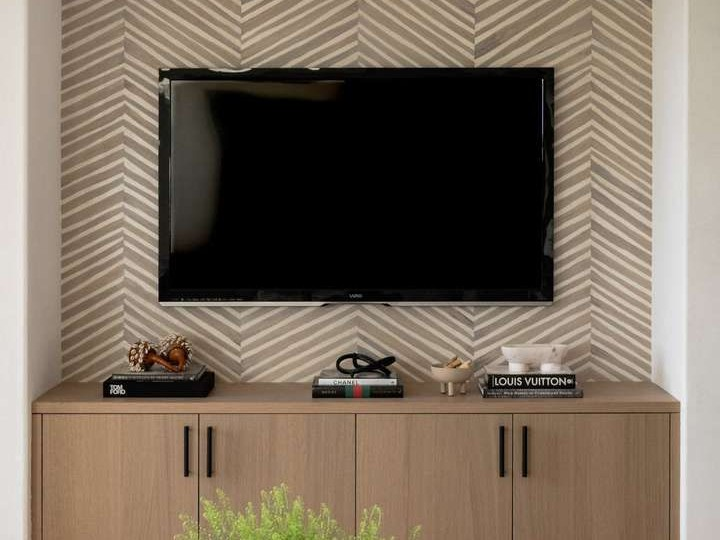
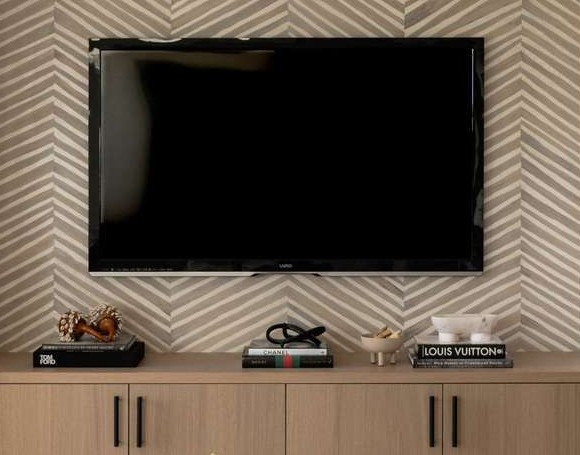
One-line wordmark, stronger glitch, tighter crop, fix expand, payoff highlight
- Hero "SUNDAY M.I.A." now on one line (nowrap + responsive size).
- Glitch intensified: faster cycle, more frequent bursts, larger channel-split
  offsets and slice jumps.
- Mockup cropped tighter around the TV (less surrounding room); overlay %s and
  room aspect recomputed.
- Fix "Expand the mock-up": the room was trapped under the body-level backdrop's
  stacking context — now lifted to <body> on open and restored on close.
- Payoff (accent) line now sits on a colored highlight (day-accent marker, dark
  text); Sunday Ticket logo moved to the top-left of the spot.

diff --git a/styles.css b/styles.css
@@ -70,23 +70,44 @@ em { font-style: normal; color: var(--ink); }
 }
 .hero__kicker { text-transform: uppercase; letter-spacing: .2em; font-size: 12px; color: var(--red-soft); font-weight: 600; margin-bottom: 20px; }
 .hero__title { font-family: 'Anton'; font-size: clamp(54px, 11vw, 132px); line-height: .86; text-transform: uppercase; letter-spacing: -.01em; }
+/* keep the whole wordmark on one line */
+.hero__title--mia { white-space: nowrap; font-size: clamp(28px, 11vw, 118px); }
+
 /* "M.I.A." — signal-lost glitch (no signal = missing from your TV) */
-.hero__title-mia { position: relative; display: inline-block; color: #fff; letter-spacing: .01em; animation: miaFlicker 4s steps(1) infinite; }
+.hero__title-mia { position: relative; display: inline-block; color: #fff; letter-spacing: .01em; animation: miaFlicker 2.4s steps(1) infinite; }
 .hero__title-mia::before, .hero__title-mia::after { content: attr(data-text); position: absolute; inset: 0; pointer-events: none; mix-blend-mode: screen; }
-.hero__title-mia::before { color: #ff2d3a; transform: translate(-2px, 1px); animation: miaGlitchR 4s steps(1) infinite; }
-.hero__title-mia::after  { color: #1fd8ff; transform: translate(2px, -1px); animation: miaGlitchC 4s steps(1) infinite; }
-@keyframes miaFlicker { 0%, 88%, 100% { opacity: 1; } 89% { opacity: .55; } 90% { opacity: .95; } 92% { opacity: .4; } 93% { opacity: .92; } }
+.hero__title-mia::before { color: #ff2d3a; transform: translate(-3px, 1px); animation: miaGlitchR 2.4s steps(1) infinite; }
+.hero__title-mia::after  { color: #1fd8ff; transform: translate(3px, -1px); animation: miaGlitchC 2.4s steps(1) infinite; }
+@keyframes miaFlicker {
+  0%, 100% { opacity: 1; }
+  9% { opacity: .65; } 10% { opacity: 1; }
+  27% { opacity: .4; } 28% { opacity: .92; }
+  44% { opacity: .7; } 45% { opacity: 1; }
+  61% { opacity: .35; } 62% { opacity: .9; }
+  79% { opacity: .6; } 80% { opacity: 1; }
+  93% { opacity: .45; } 94% { opacity: .95; }
+}
 @keyframes miaGlitchR {
-  0%, 86%, 100% { clip-path: inset(0 0 0 0); transform: translate(-2px, 1px); }
-  87% { clip-path: inset(18% 0 58% 0); transform: translate(-7px, -2px); }
-  90% { clip-path: inset(62% 0 12% 0); transform: translate(6px, 1px); }
-  94% { clip-path: inset(40% 0 38% 0); transform: translate(-5px, 2px); }
+  0%, 100% { clip-path: inset(0 0 0 0); transform: translate(-3px, 1px); }
+  8%  { clip-path: inset(8% 0 72% 0);  transform: translate(-11px, -3px); }
+  16% { clip-path: inset(54% 0 22% 0); transform: translate(9px, 2px); }
+  26% { clip-path: inset(30% 0 46% 0); transform: translate(-8px, 3px); }
+  40% { clip-path: inset(0 0 0 0);     transform: translate(-3px, 1px); }
+  54% { clip-path: inset(74% 0 6% 0);  transform: translate(10px, -2px); }
+  64% { clip-path: inset(16% 0 64% 0); transform: translate(-10px, 2px); }
+  78% { clip-path: inset(44% 0 30% 0); transform: translate(8px, -3px); }
+  92% { clip-path: inset(10% 0 70% 0); transform: translate(-9px, 2px); }
 }
 @keyframes miaGlitchC {
-  0%, 86%, 100% { clip-path: inset(0 0 0 0); transform: translate(2px, -1px); }
-  88% { clip-path: inset(70% 0 8% 0); transform: translate(7px, 2px); }
-  91% { clip-path: inset(10% 0 72% 0); transform: translate(-6px, -2px); }
-  95% { clip-path: inset(48% 0 30% 0); transform: translate(5px, -2px); }
+  0%, 100% { clip-path: inset(0 0 0 0); transform: translate(3px, -1px); }
+  8%  { clip-path: inset(66% 0 10% 0); transform: translate(11px, 2px); }
+  16% { clip-path: inset(12% 0 68% 0); transform: translate(-9px, -2px); }
+  26% { clip-path: inset(48% 0 28% 0); transform: translate(8px, -3px); }
+  40% { clip-path: inset(0 0 0 0);     transform: translate(3px, -1px); }
+  54% { clip-path: inset(20% 0 60% 0); transform: translate(-10px, 2px); }
+  64% { clip-path: inset(58% 0 16% 0); transform: translate(10px, -2px); }
+  78% { clip-path: inset(34% 0 42% 0); transform: translate(-8px, 3px); }
+  92% { clip-path: inset(70% 0 6% 0);  transform: translate(9px, -2px); }
 }
 @media (prefers-reduced-motion: reduce) { .hero__title-mia, .hero__title-mia::before, .hero__title-mia::after { animation: none; } }
 .hero__lede { margin-top: 26px; max-width: 680px; color: var(--ink-dim); font-size: clamp(15px, 1.7vw, 18px); }
@@ -200,7 +221,7 @@ em { font-style: normal; color: var(--ink); }
 .ctv__loader .spin { width: 18px; height: 18px; border: 2px solid rgba(255,255,255,.25); border-top-color: var(--accent); border-radius: 50%; animation: spin .8s linear infinite; }
 @keyframes spin { to { transform: rotate(360deg); } }
 
-.ctv__chrome { position: absolute; top: 0; left: 0; right: 0; z-index: 4; display: flex; align-items: flex-start; justify-content: flex-end; padding: 3% 3.4%; }
+.ctv__chrome { position: absolute; top: 0; left: 0; right: 0; z-index: 4; display: flex; align-items: flex-start; justify-content: flex-start; padding: 3% 3.4%; }
 .ctv__stlogo { height: clamp(24px, 8cqw, 52px); width: auto; flex: none; filter: drop-shadow(0 2px 12px rgba(0,0,0,.7)); }
 .st-lockup { display: flex; align-items: center; gap: 8px; }
 .st-lockup__yt { background: var(--red); color: #fff; font-size: 10px; padding: 4px 6px; border-radius: 4px; line-height: 1; }
@@ -224,7 +245,7 @@ em { font-style: normal; color: var(--ink); }
 .ctv__statement { flex: 0 0 37%; min-width: 0; display: flex; flex-direction: column; justify-content: flex-end; gap: 2.2cqw; }
 .ctv__headline { font-family: 'Oswald'; line-height: .96; text-wrap: balance; margin: 0; }
 .ctv__hl-lead { display: block; font-weight: 700; text-transform: uppercase; letter-spacing: -.015em; font-size: clamp(13px, 4.7cqw, 38px); color: #fff; text-shadow: 0 2px 18px rgba(0,0,0,.9); }
-.ctv__hl-accent { display: block; margin-top: 1.4cqw; font-family: 'Archivo', sans-serif; font-style: italic; font-weight: 500; text-transform: none; letter-spacing: 0; font-size: clamp(9px, 2.7cqw, 18px); line-height: 1.18; color: var(--accent); text-shadow: 0 1px 10px rgba(0,0,0,.85); }
+.ctv__hl-accent { display: inline-block; margin-top: 1.6cqw; font-family: 'Archivo', sans-serif; font-style: italic; font-weight: 600; text-transform: none; letter-spacing: 0; font-size: clamp(9px, 2.7cqw, 18px); line-height: 1.28; color: #0a0d12; background: var(--accent); padding: .16em .42em; border-radius: 3px; box-shadow: 0 2px 12px rgba(0,0,0,.32); }
 .ctv__cta-btn { align-self: flex-start; margin-top: 1cqw; font-family: 'Oswald'; text-transform: uppercase; letter-spacing: .02em; font-size: clamp(8px, 2.2cqw, 13px); color: #fff; background: var(--red); padding: .62em 1.05em; border-radius: 999px; box-shadow: 0 4px 16px rgba(255,45,45,.4); }
 .ctv__headline.is-reveal .ctv__hl-lead { animation: hlLead .5s cubic-bezier(.2,.75,.2,1) both; }
 .ctv__headline.is-reveal .ctv__hl-accent { animation: hlAcc .5s .12s ease both; }
@@ -257,13 +278,13 @@ em { font-style: normal; color: var(--ink); }
 
 /* ── real living-room scene — the ad renders INSIDE the photo's TV ── */
 .room {
-  position: relative; width: 100%; max-width: 980px; aspect-ratio: 720 / 540; border-radius: 14px; overflow: hidden;
+  position: relative; width: 100%; max-width: 980px; aspect-ratio: 580 / 455; border-radius: 14px; overflow: hidden;
   background: #cdc7bb url('assets/room.jpg') center / cover no-repeat;
   box-shadow: 0 34px 80px rgba(0,0,0,.4), inset 0 0 0 1px rgba(0,0,0,.06);
 }
 /* the ad, mapped precisely onto the photo's black screen rectangle */
 .room .ctv {
-  position: absolute; left: 22.5%; top: 11.85%; width: 54.58%; height: 43.7%;
+  position: absolute; left: 15.86%; top: 7.47%; width: 67.76%; height: 51.87%;
   max-width: none; margin: 0; z-index: 2;
 }
 .room__ambient, .room__console { display: none; }

diff --git a/app.js b/app.js
@@ -580,27 +580,36 @@ function buildToday() {
   document.getElementById('todayChip').hidden = false;
 }
 
-/* ── expand the mock-up into a large lightbox ──────────────────────── */
+/* ── expand the mock-up into a large lightbox ──────────────────────────
+   The room lives deep inside the studio grid, whose stacking context paints
+   below a body-level backdrop. So on open we MOVE the room node up to <body>
+   (same node → keeps its listeners + live state) and restore it on close. */
 function initExpand() {
   const btn = document.getElementById('expandBtn');
   const room = document.getElementById('room');
   if (!btn || !room) return;
-  let bd = null, closeBtn = null;
+  let bd = null, closeBtn = null, anchor = null;
   const onKey = e => { if (e.key === 'Escape') close(); };
   function close() {
+    if (!room.classList.contains('is-expanded')) return;
     room.classList.remove('is-expanded');
+    if (anchor && anchor.parentNode) anchor.parentNode.insertBefore(room, anchor);  // put it back
+    if (anchor) anchor.remove();
     document.body.classList.remove('mockup-open');
     if (bd) bd.remove();
     if (closeBtn) closeBtn.remove();
+    bd = closeBtn = anchor = null;
     document.removeEventListener('keydown', onKey);
     btn.setAttribute('aria-expanded', 'false');
   }
   function open() {
+    anchor = document.createComment('room-placeholder');     // remember where it was
+    room.parentNode.insertBefore(anchor, room);
     bd = document.createElement('div'); bd.className = 'lightbox-backdrop';
     closeBtn = document.createElement('button');
     closeBtn.className = 'lightbox-close'; closeBtn.innerHTML = '✕';
     closeBtn.setAttribute('aria-label', 'Close expanded mock-up');
-    document.body.append(bd, closeBtn);
+    document.body.append(bd, room, closeBtn);                // lift room to top level
     document.body.classList.add('mockup-open');
     room.classList.add('is-expanded');
     bd.addEventListener('click', close);

diff --git a/index.html b/index.html
@@ -36,7 +36,7 @@
     </div>
     <div class="hero__inner">
     <div class="hero__kicker">YouTube Sunday Ticket × Fantasy · Contextual CTV engine</div>
-    <h1 class="hero__title hero__title--mia">Sunday<br /><span class="hero__title-mia" data-text="M.I.A.">M.I.A.</span></h1>
+    <h1 class="hero__title hero__title--mia">Sunday <span class="hero__title-mia" data-text="M.I.A.">M.I.A.</span></h1>
     <p class="hero__lede">
       Every market drafts the same superstars — and almost none of them play <em>in</em> that market.
       Your <strong>eight most-drafted starters</strong> are scattered across out-of-market games your local